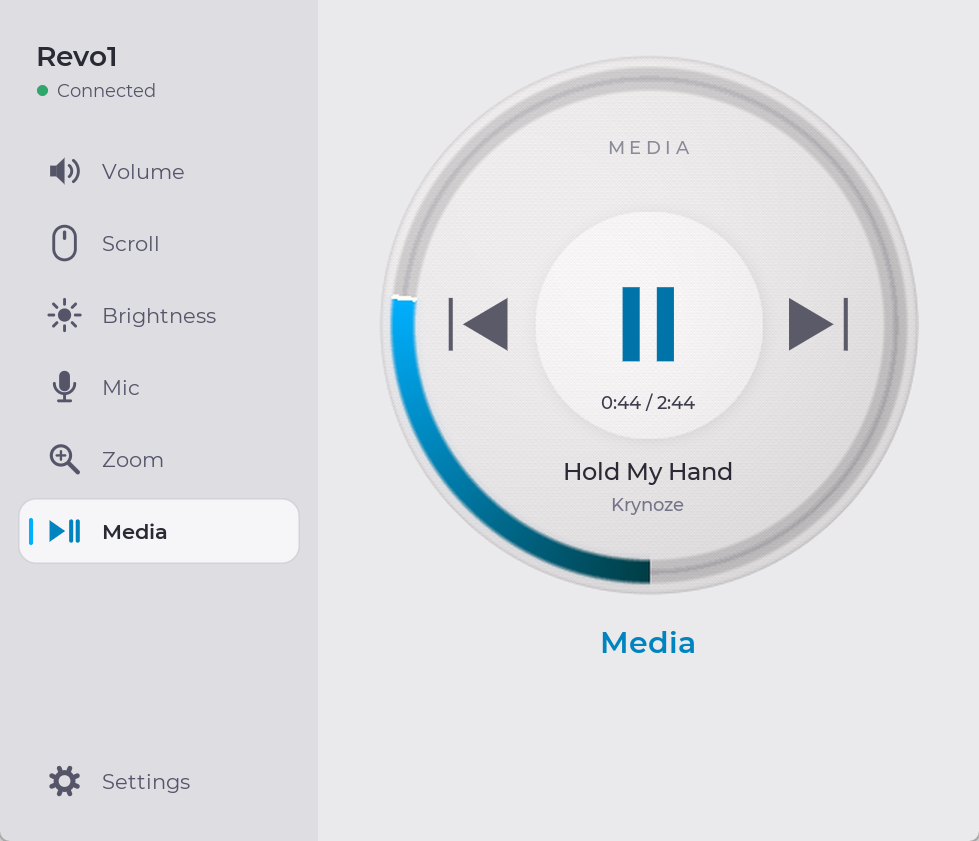
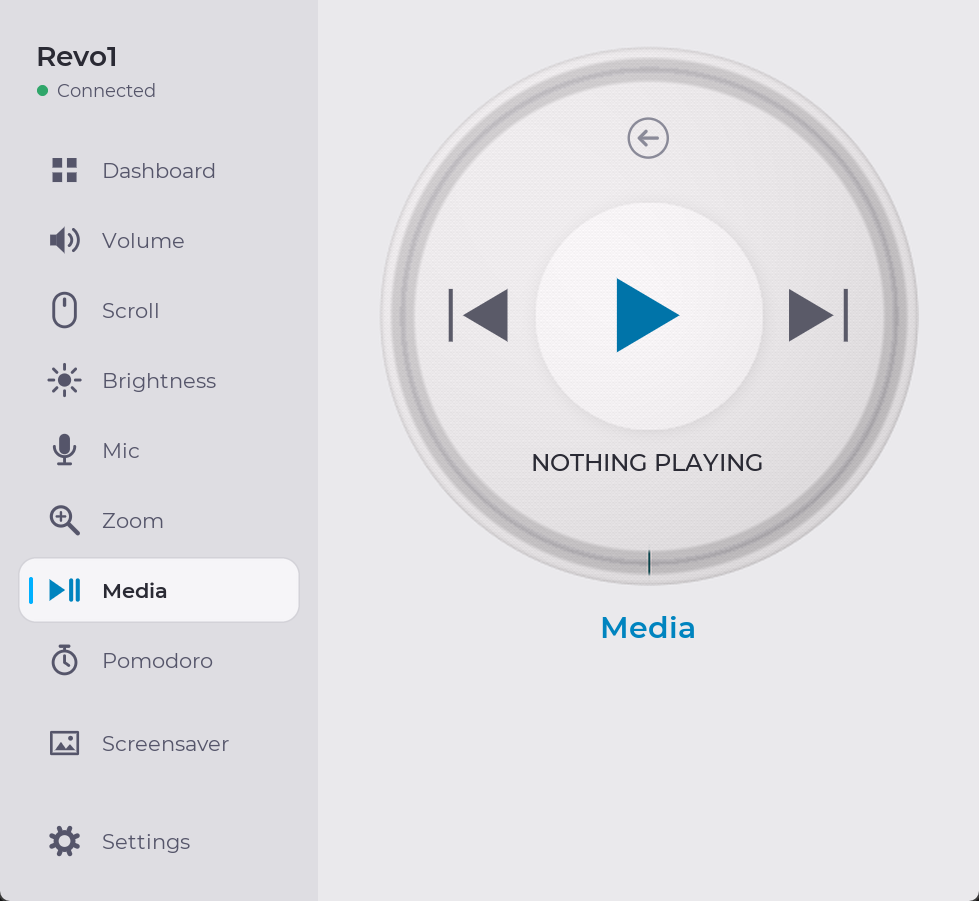
Replace the mode name on the dial with a back arrow
Every screen shows a back arrow at the top instead of the mode name; a tap
on it opens the menu, on the knob and in the app.

diff --git a/firmware/main/main.c b/firmware/main/main.c
@@ -71,14 +71,15 @@
 #define ARC_SHADE_STEPS (DIAL_ARC_BAND * 4 + 1)
 #define BAND_CAPACITY 40000
 /* The gauge is the whole ring: it starts at 6 o'clock and runs clockwise all
-   the way round, so at 100% the colour meets itself. The mode label sits on
+   the way round, so at 100% the colour meets itself. A back button sits on
    the upper face, between the cap and the ring. */
 #define GAUGE_START 768
 #define GAUGE_SPAN ARC_SEGMENTS
 #define FOOTER_Y (-118)
-/* Tapping the mode name also goes back to the menu. */
-#define FOOTER_HIT_W 90
-#define FOOTER_HIT_H 20
+/* Tapping the back button goes back to the menu. */
+#define FOOTER_HIT_W 30
+#define FOOTER_HIT_H 30
+#define BACK_ICON_SIZE 1.0f
 #define ARC_TAIL 300
 /* Scroll and zoom: each detent moves the comet a fixed number of segments
    (q8), and the head eases a quarter of the way there per frame. The PC app
@@ -264,7 +265,6 @@ static lv_obj_t *title_label;
 static lv_obj_t *value_label;
 static lv_obj_t *artist_label;
 static lv_obj_t *time_label;
-static lv_obj_t *footer_label;
 static lv_color_t *canvas_pixels;
 static lv_color_t *draw_buffer_a;
 static lv_color_t *draw_buffer_b;
@@ -1040,6 +1040,14 @@ static const menu_icon_t media_prev = {icon_prev, ICON_COUNT(icon_prev)};
 static const menu_icon_t media_next = {icon_next, ICON_COUNT(icon_next)};
 static const menu_icon_t media_play = {icon_play, ICON_COUNT(icon_play)};
 static const menu_icon_t media_pause = {icon_pause, ICON_COUNT(icon_pause)};
+/* A left arrow in a thin ring: the way back to the menu. */
+static const icon_part_t icon_back[] = {
+    {PART_ARC, {0, 0, 13, 1.6f, -180, 180}},
+    {PART_SEG, {-6, 0, 6, 0, 2.2f}},
+    {PART_SEG, {-6, 0, -1.5f, -4.5f, 2.2f}},
+    {PART_SEG, {-6, 0, -1.5f, 4.5f, 2.2f}},
+};
+static const menu_icon_t back_button = {icon_back, ICON_COUNT(icon_back)};
 
 #define MENU_ICON_R 120
 #define MENU_ICON_SIZE 1.25f
@@ -1237,6 +1245,8 @@ static void render_canvas(void)
         if (show_menu) {
             draw_menu_icons();
         } else {
+            draw_menu_icon(&back_button, SCREEN_CENTER, SCREEN_CENTER + FOOTER_Y,
+                           BACK_ICON_SIZE, 0x8A, 0x8A, 0x98);
             if (selected_mode == MEDIA_MODE) {
                 draw_media_icons(accent_of(MEDIA_MODE));
             } else if (mode_is_level(selected_mode)) {
@@ -1323,14 +1333,10 @@ static void apply_labels(void)
         lv_obj_add_flag(title_label, LV_OBJ_FLAG_HIDDEN);
         lv_obj_add_flag(artist_label, LV_OBJ_FLAG_HIDDEN);
         lv_obj_add_flag(time_label, LV_OBJ_FLAG_HIDDEN);
-        lv_obj_add_flag(footer_label, LV_OBJ_FLAG_HIDDEN);
         return;
     }
 
     lv_obj_set_style_text_color(value_label, lv_color_hex(0x2A2A34), 0);
-
-    lv_label_set_text(footer_label, mode_names[selected_mode]);
-    lv_obj_clear_flag(footer_label, LV_OBJ_FLAG_HIDDEN);
 
     if (selected_mode == MEDIA_MODE) {
         lv_label_set_text(title_label,
@@ -2184,12 +2190,6 @@ static void initialize_lvgl(void)
     lv_obj_align(time_label, LV_ALIGN_CENTER, 0, MEDIA_TIME_Y);
     lv_label_set_text(time_label, "");
     /* Sits on the upper face, between the cap and the ring. */
-    footer_label = lv_label_create(lv_scr_act());
-    lv_obj_set_style_text_color(footer_label, lv_color_hex(0x8A8A98), 0);
-    lv_obj_set_style_text_font(footer_label, &lv_font_montserrat_12, 0);
-    lv_obj_set_style_text_letter_space(footer_label, 3, 0);
-    lv_obj_align(footer_label, LV_ALIGN_CENTER, 0, FOOTER_Y);
-    lv_label_set_text(footer_label, "");
     refresh_screen();
 
     const esp_timer_create_args_t tick = {
@@ -2273,7 +2273,6 @@ static void start_saver(int64_t now)
     lv_obj_add_flag(value_label, LV_OBJ_FLAG_HIDDEN);
     lv_obj_add_flag(artist_label, LV_OBJ_FLAG_HIDDEN);
     lv_obj_add_flag(time_label, LV_OBJ_FLAG_HIDDEN);
-    lv_obj_add_flag(footer_label, LV_OBJ_FLAG_HIDDEN);
     if (lvgl_mutex) xSemaphoreGive(lvgl_mutex);
     /* Each time the screensaver starts it picks up with the next item. */
     begin_saver_item(saver_item + 1, now);
@@ -2285,7 +2284,6 @@ static void stop_saver(void)
     if (!saver_active) return;
     saver_active = false;
     if (lvgl_mutex) xSemaphoreTake(lvgl_mutex, portMAX_DELAY);
-    lv_obj_clear_flag(footer_label, LV_OBJ_FLAG_HIDDEN);
     if (lvgl_mutex) xSemaphoreGive(lvgl_mutex);
     refresh_screen();
     printf("SAVER,OFF\n");

diff --git a/revo1/dial.py b/revo1/dial.py
@@ -17,14 +17,15 @@ BAND = 15
 SEGMENTS = 1024
 MASK = SEGMENTS - 1
 # The gauge is the whole ring: it starts at 6 o'clock and runs clockwise all
-# the way round, so at 100% the colour meets itself. The mode name sits on the
+# the way round, so at 100% the colour meets itself. A back button sits on the
 # upper face instead of in a gap.
 GAUGE_START = 768
 GAUGE_SPAN = SEGMENTS
 FOOTER_Y = -118
-# Tapping the mode name on the upper face also goes back to the menu.
-FOOTER_HIT_W = 90
-FOOTER_HIT_H = 20
+# Tapping the back button on the upper face goes back to the menu.
+FOOTER_HIT_W = 30
+FOOTER_HIT_H = 30
+BACK_ICON_SIZE = 1.0
 MENU_SEGMENT_HALF = 456
 # Scroll/zoom comet, identical to the firmware so both rest on the same
 # segment: positions in q8 segments, a fixed move per detent, eased a quarter

diff --git a/revo1/app.py b/revo1/app.py
@@ -1182,9 +1182,10 @@ class App(DashboardPage, ScreensaverPage):
                                     self.comet_direction)
             draw = ImageDraw.Draw(image)
             self.put_text(draw, c, c, self.mode.upper(), 16, dial.VALUE_INK)
-        self.put_text(draw, c, c + dial.FOOTER_Y, self.mode.upper(), 12, dial.FOOTER_INK,
-                      tracking=3)
-        self.show_dial(image)
+        pixels = np.array(image.convert("RGB"))
+        self.draw_icon(pixels, "Back", c, c + dial.FOOTER_Y, dial.FOOTER_INK,
+                       size=dial.BACK_ICON_SIZE)
+        self.show_dial(Image.fromarray(pixels))
         if self.mode == "Pomodoro":
             for button in self.pomodoro_buttons:
                 button.refresh()

diff --git a/revo1/icons.py b/revo1/icons.py
@@ -98,6 +98,13 @@ SHAPES = {
         ("poly", 0, 6, 4.5, 1, 4.5, 1, 9, 6),
         ("disc", 5, -4, 2),
     ],
+    # The back button on every screen; firmware/main/main.c has it as icon_back.
+    "Back": [
+        ("arc", 0, 0, 13, 1.6, -180, 180),
+        ("seg", -6, 0, 6, 0, 2.2),
+        ("seg", -6, 0, -1.5, -4.5, 2.2),
+        ("seg", -6, 0, -1.5, 4.5, 2.2),
+    ],
     "Plus": [("seg", -7, 0, 7, 0, 2.4), ("seg", 0, -7, 0, 7, 2.4)],
     "Close": [("seg", -5, -5, 5, 5, 2.2), ("seg", 5, -5, -5, 5, 2.2)],
 }

diff --git a/README.md b/README.md
@@ -72,7 +72,7 @@ sync as you turn the knob.
 - **Media screen** for whatever is playing (Spotify, a browser tab, ...):
   title, artist, progress ring, and big play/pause, previous and next buttons.
   Turning the knob seeks 5 seconds per click.
-- **Radial menu:** tap the centre or the mode name, turn to choose, tap to
+- **Radial menu:** tap the centre or the back arrow, turn to choose, tap to
   confirm. It opens on the control you used last.
 - **Always in sync:** the knob, the screen and the app window show the same
   value, and volume changes made elsewhere in Windows show up on the knob.
@@ -150,7 +150,7 @@ once the knob answers.
 
 - **Turn** the knob to change the current control.
 - **Swipe** left or right to switch to the next or previous control.
-- **Tap the centre or the mode name** at the top to open the menu. Turn to
+- **Tap the back arrow** at the top (or the centre) to open the menu. Turn to
   move the highlight, then tap to confirm, or tap an icon directly.
 - On the **Pomodoro** screen, tap the dial to start or pause the timer.
 - While the **screensaver** runs, a touch or a turn wakes the dial (that

diff --git a/firmware/README.md b/firmware/README.md
@@ -146,8 +146,9 @@ bezel: the full screen is a light face lit from the upper left, with a brighter
 centre cap (radius 76). A recessed channel at radius 164 hugs the edge and
 carries the arc, and the outer rim rolls off over the last 4 px. On the light
 face the arc's halo is a tint blend rather than additive light, and the unlit
-track is a darker etched line. Text is dark on the face. The mode name sits on
-the upper face, between the cap and the ring.
+track is a darker etched line. Text is dark on the face. A back arrow in a thin
+ring (`icon_back`, drawn with the chrome) sits on the upper face, between the
+cap and the ring; a tap within 30 px of it opens the menu.
 
 - **Level modes** fill the gauge clockwise from 6 o'clock all the way round, so
   at 100% the colour meets itself as a full ring.

diff --git a/CHANGELOG.md b/CHANGELOG.md
@@ -9,7 +9,7 @@ First public release.
 - Windows companion app with the same dial, kept in sync with the knob.
 - Controls: volume, scrolling, brightness, microphone, zoom and media
   (title, artist, progress, play/pause, previous, next, seek).
-- Radial icon menu opened from the centre or the mode name; knob to choose,
+- Radial icon menu opened from the back arrow at the top or the centre; knob to choose,
   tap to confirm.
 - Pomodoro screen: focus and break lengths, start/pause from the app or by
   tapping the knob, a countdown ring on the device and a chime on the PC at
